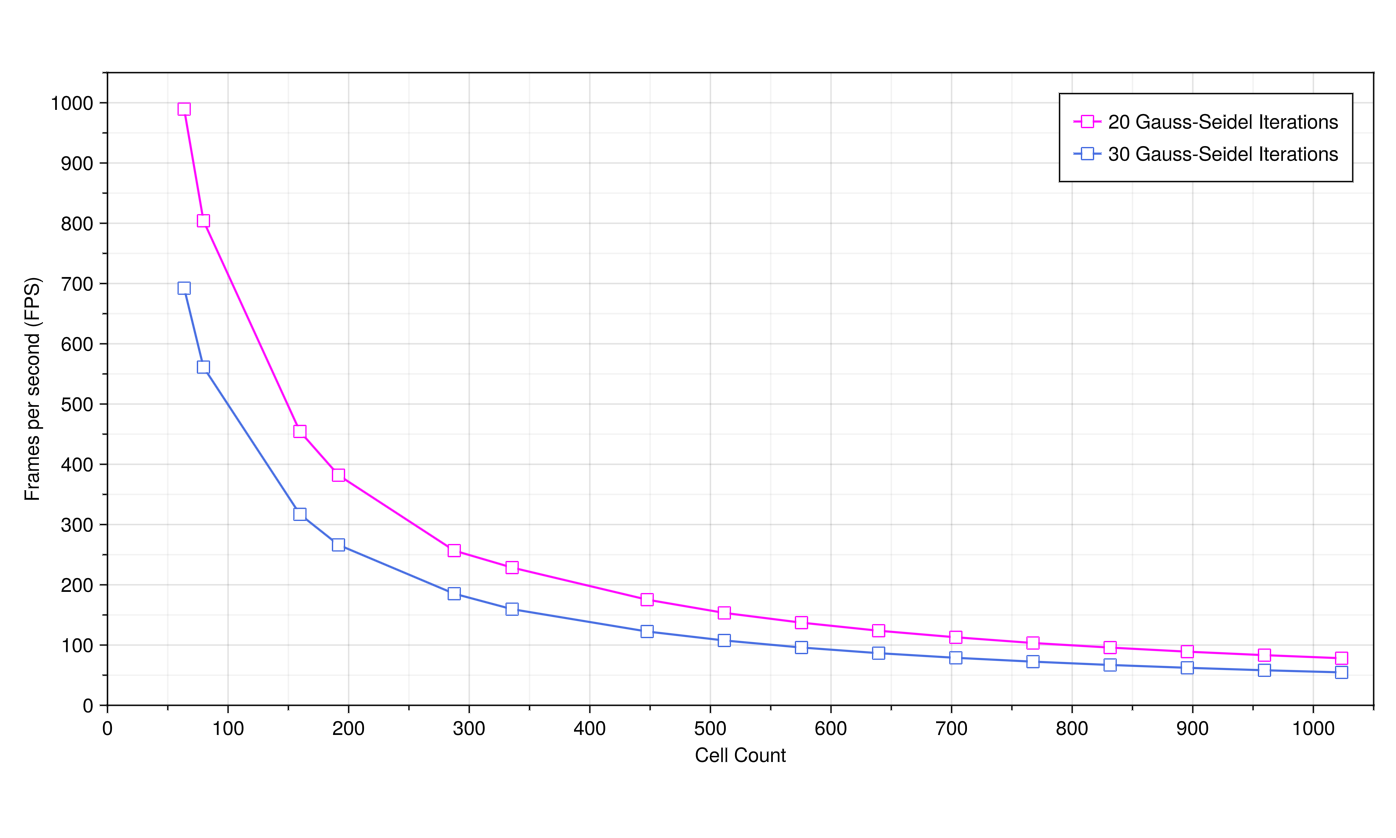
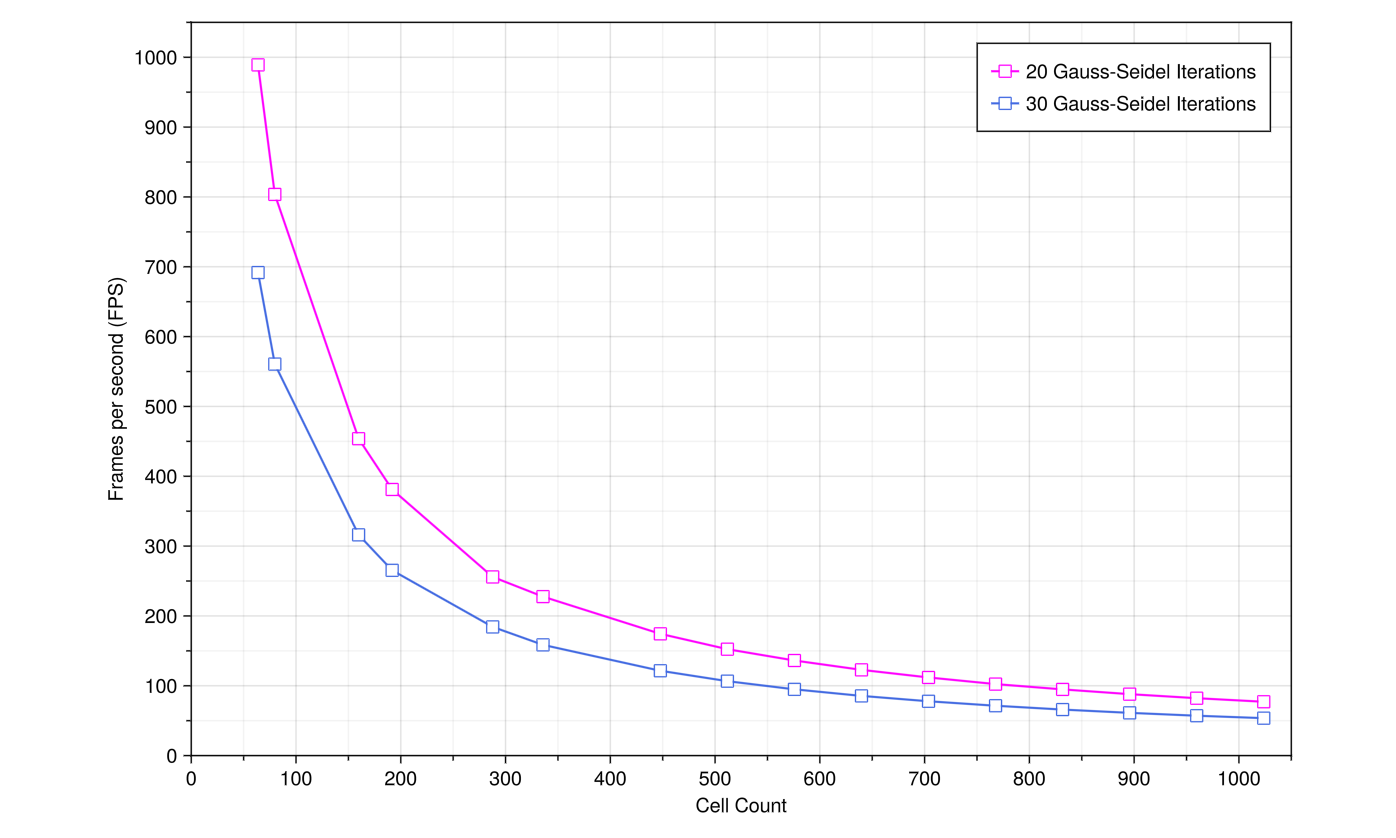
docs: document Navier-Stokes equations in README and ignore VS Code workspace files

diff --git a/README.md b/README.md
@@ -1,14 +1,25 @@
 # [Stable Fluids](https://github.com/Luiulator/ESP32-stableFluids)
 
-A C++ port of [my Julia module](https://github.com/Luiulator/colourlessFD) that implements the Stable Fluids algorithm, which is commonly used to simulate smoke and other slightly dense gaseous flows in videogames in real time. It is quite lightweight and inconditionally stable. As such, modern microcontrollers like the ESP32 should be able to run it at sufficient framerates for it to look "fluid" enough too. This is my attempt at that.
+A C++ port of [my Julia module](https://github.com/Luiulator/colourlessFD) that implements the Stable Fluids algorithm, which is commonly used to simulate smoke and other slightly dense gaseous flows in videogames in real time. It is quite lightweight and unconditionally stable. As such, modern microcontrollers like the ESP32 should be able to run it at sufficient framerates for it to look "fluid" enough too. This is my attempt at that.
 
 
 
 ## A few Highlights
 
+- This software solves the incompressible Navier-Stokes equations. That's the Continuity Equation
+
+$$ \nabla \cdot \bold{u} = 0 $$
+
+and the Momentum Equation
+
+$$ \frac{\partial \bold{u}}{\partial t} + (\bold{u} \cdot \nabla) \bold{u} = \nu \nabla^2 \bold{u} + \frac{1}{\rho} \nabla p + \frac{1}{\rho}\bold{f} $$
+
+It does so by breaking down each term of the sum and solving them separately, then summing up. Lastly, it applies a correction pressure so that we enforce that the fluid remains incompressible.   
+
+- Stable Fluids is, as per its name, unconditionally stable. That means you won't get infinite velocities, vorticities or whatever magnitudes, under any circumstance. It is then theoretically possible to use a dt as large as you wish, although at some point the physics will completely break. Feel free to tweak it and find out!
 
 
-
+*Be advised!!!* As a tradeoff for the unconditional stability, this method sacrifices precise recreation of fluid dynamics. You should expect fluid-like motion, but do not use it for any sensitive purpose as it will not behave physically.
 
 ## Some Benchmarks
 
